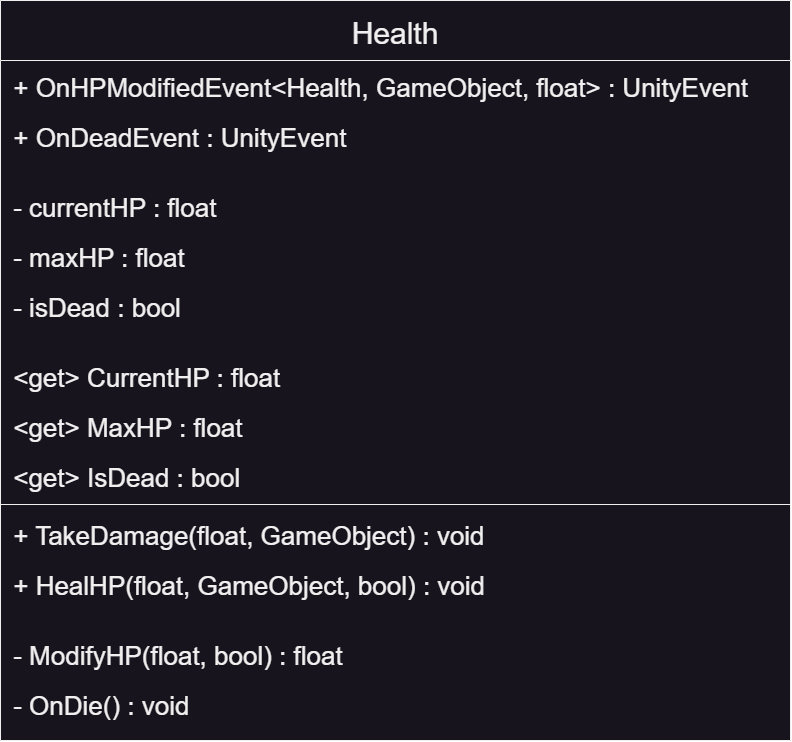
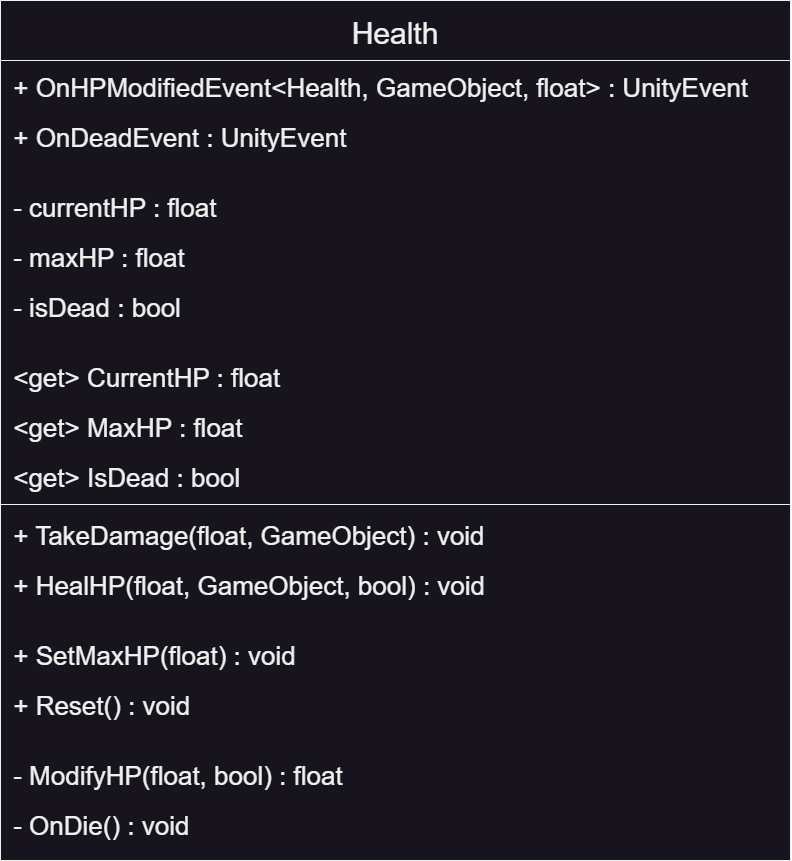
implement uml

Changed region(s): [[0.0, 0.403, 0.6364, 0.8369], [0.0, 0.0, 1.0, 0.372], [0.0, 0.8679, 1.0, 1.0]]

diff --git a/ProjectWak/Assets/01. Scripts/Module/Health.cs b/ProjectWak/Assets/01. Scripts/Module/Health.cs
@@ -1,0 +1,64 @@
+using System.Reflection;
+using UnityEngine;
+using UnityEngine.Events;
+
+public class Health : MonoBehaviour
+{
+    // <this, performer, amount>
+    public UnityEvent<Health, GameObject, float> OnHPModifiedEvent = null;
+	public UnityEvent OnDeadEvent = null;
+
+    private float currentHP = 0f;
+    public float CurrentHP => currentHP;
+
+    private float maxHP = 50f;
+    public float MaxHP => maxHP;
+
+    private bool isDead = false;
+    public bool IsDead => isDead;
+
+    public void SetMaxHP(float maxHP)
+    {
+        this.maxHP = maxHP;
+    }
+
+    public void Reset()
+    {
+        isDead = false;
+        currentHP = maxHP;
+    }
+
+    public void TakeDamage(float damage, GameObject performer)
+    {
+        if(isDead)
+            return;
+
+        ModifyHP(-damage, false);
+        OnHPModifiedEvent?.Invoke(this, performer, -damage);
+
+        if(currentHP <= 0f)
+            OnDie();
+    }
+
+    public void HealHP(float amount, GameObject performer, bool overflow = false)
+    {
+        float modifiedAmount = ModifyHP(amount, overflow);
+        OnHPModifiedEvent?.Invoke(this, performer, modifiedAmount);
+    }
+
+    private float ModifyHP(float amount, bool overflow)
+    {
+        float prevHP = currentHP;
+        currentHP += amount;
+        if(overflow == false)
+            currentHP = Mathf.Clamp(currentHP, 0f, maxHP);
+        
+        return currentHP - prevHP;
+    }
+
+    private void OnDie()
+    {
+        isDead = true;
+        OnDeadEvent?.Invoke();
+    }
+}

diff --git a/ProjectWak/Assets/01. Scripts/Module/NevMovement.cs b/ProjectWak/Assets/01. Scripts/Module/NevMovement.cs
@@ -1,0 +1,35 @@
+using System;
+using UnityEngine;
+using UnityEngine.AI;
+
+public class NavMovement : MonoBehaviour
+{
+    private NavMeshAgent navAgent = null;
+
+    private float moveSpeed = 3f;
+
+    public bool IsStopped => navAgent.isStopped;
+    public bool IsArrived => (navAgent.pathPending == false) && navAgent.remainingDistance <= navAgent.stoppingDistance;
+
+    public void Move(Vector3 destination)
+    {
+        navAgent.SetDestination(destination);
+    }
+
+    public void StopImmediately()
+    {
+        Move(transform.position);
+    }
+
+    public void SetActive(bool active)
+    {
+        navAgent.isStopped = active;
+        navAgent.enabled = !active;
+    }
+
+    public void SetSpeed(float speed)
+    {
+        moveSpeed = speed;
+        navAgent.speed = moveSpeed;
+    }
+}
